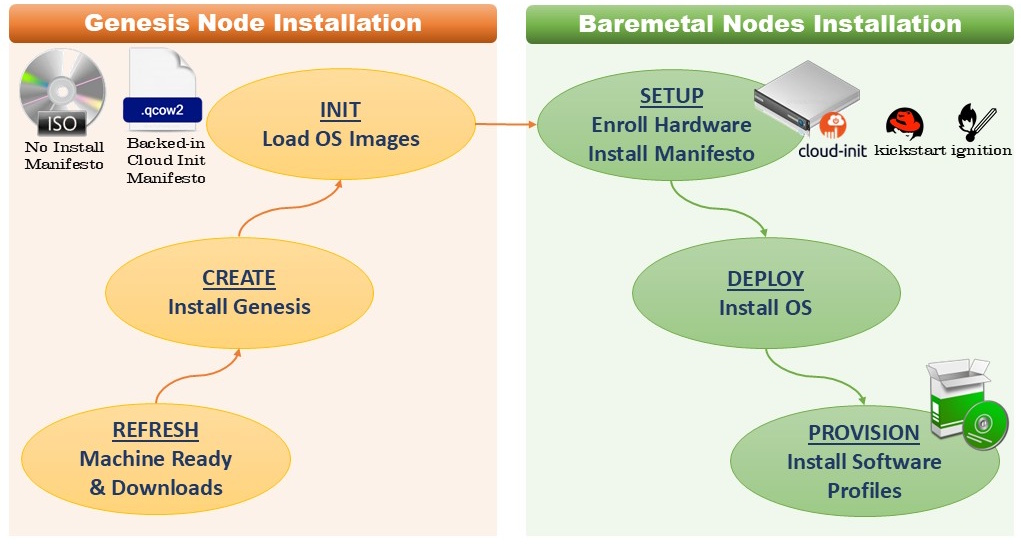
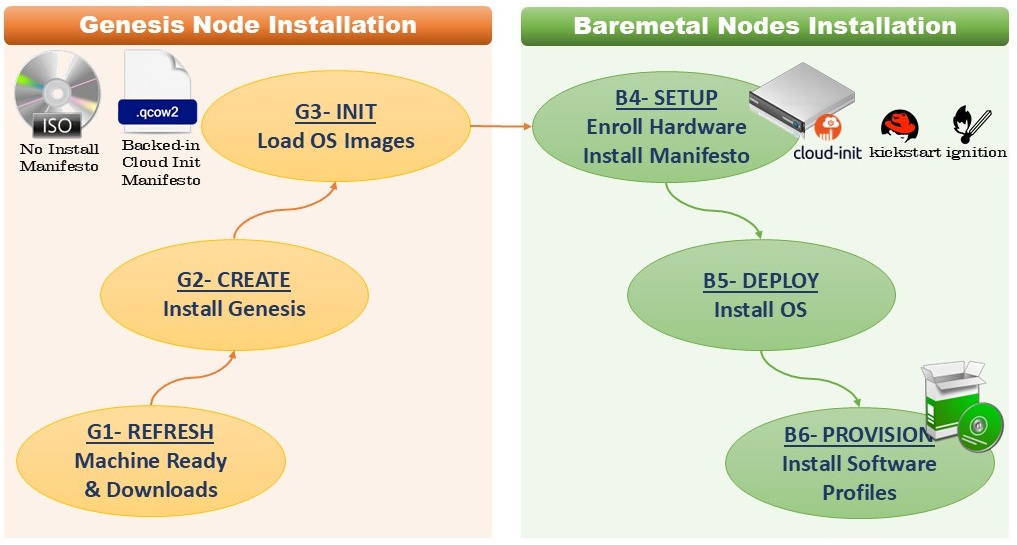
RENAMING: bifrost lifecycle

diff --git a/README.md b/README.md
@@ -12,9 +12,9 @@
 ## Scenarios
 - **Genesis with Internet**... download OpenStack components and linux distros images and save it locally.
 - **Genesis Airgap**... tarball Genesis project with local repository to deploy in isolated environments.
-... Genesis Airgap not tested, eventually tools such [Hauler](https://ranchergovernment.com/blog/simplifying-the-airgap-experience-with-rancher-government-hauler) should be included. Prefered CentOS/RHEL over Ubuntu since airgap repos easier to create from ISO.
-- **Ansible Execution Environment** Compilation... layout is there for packaging Genesis into a Container in the future. 
-... Actually, Genesis should run in a dedicated machine instead of container.
+... Genesis Airgap not tested, eventually tools such [Hauler](https://ranchergovernment.com/blog/simplifying-the-airgap-experience-with-rancher-government-hauler) or [Zarf](https://zarf.dev/) should be included. Prefered CentOS/RHEL over Ubuntu since airgap repos easier to create from ISO.
+- **Ansible Execution Environment** Compilation... layout is there for packaging Genesis into a Container in the future. Eventually integrate [Kolla-Ansible](https://docs.openstack.org/kolla-ansible/latest/reference/deployment-and-bootstrapping/bifrost.html) tooling for that.
+
 
 ## Genesis Node Life Cycle
 ![Genesis](./doc/genesis.jpg)
